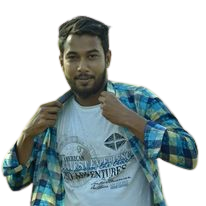
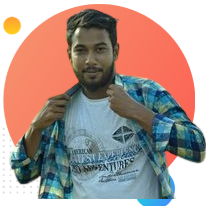
big-dream

diff --git a/index.html b/index.html
@@ -29,6 +29,21 @@
             <img src="my images/salman2 (2).png" alt="">
         </div>
     </section>
+    <section class="big-dream">
+        <div class="half-width">
+            <img src="my images/salman2 (3).png" alt="">
+        </div>
+        <div class="half-width">
+            <h1>Dream Big</h1>
+            <h3>Become a web developer</h3>
+            <p>I already learned the basic HTML and CSS. can build any simple website .
+                <br> I can even teach my grandma how to make simple website.My goal is to<br>
+                build 3 websites and learn advanced topics.
+            </p>
+            <a class="link-button" target="_blank" href="">DOWNLOAD RESUME</a>
+        </div>
+
+    </section>
 </body>
 
 </html>

diff --git a/style.css b/style.css
@@ -43,3 +43,9 @@ section {
     background-image: url(images/top-banner.png);
     background-repeat: no-repeat;
 }
+
+.big-dream {
+    background-image: url(images/dream-bg.png);
+    background-repeat: no-repeat;
+    background-position: right;
+}
